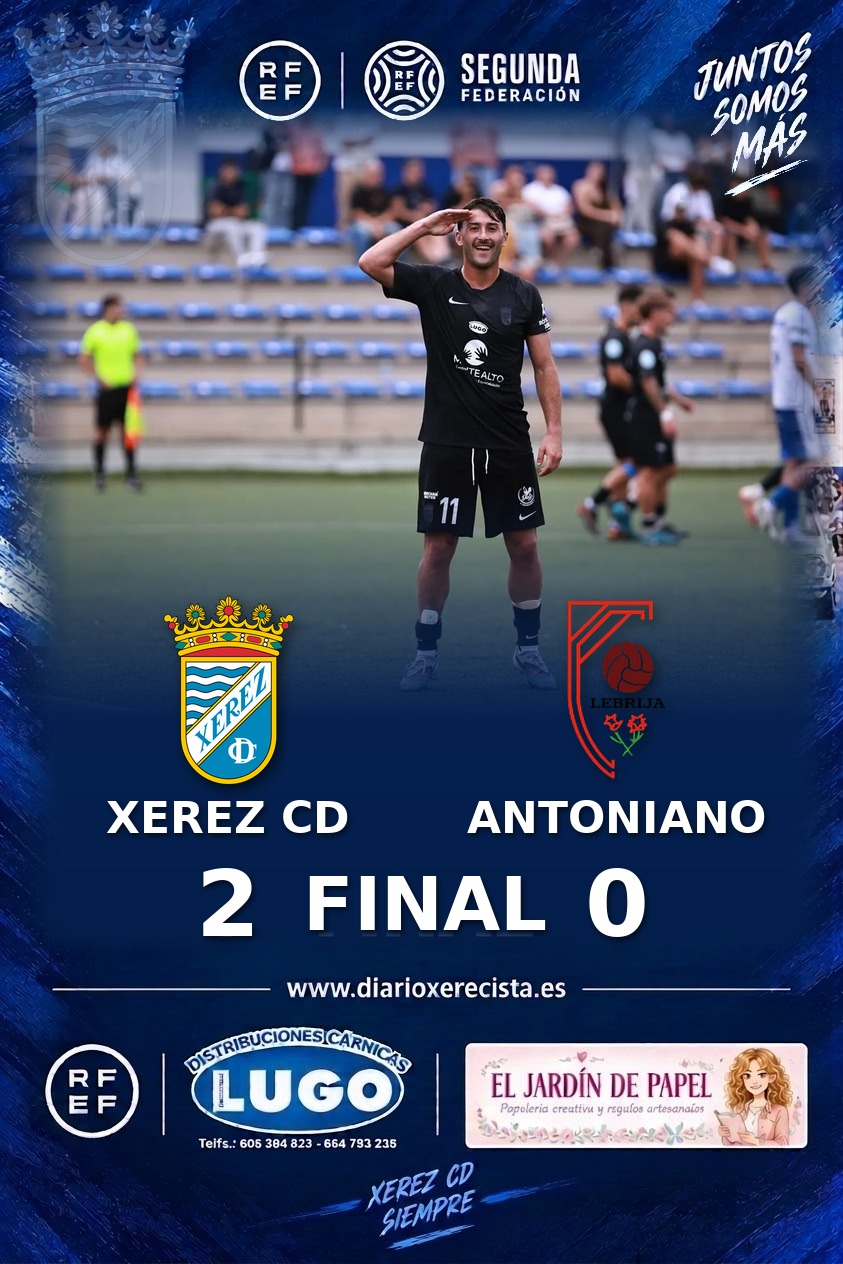
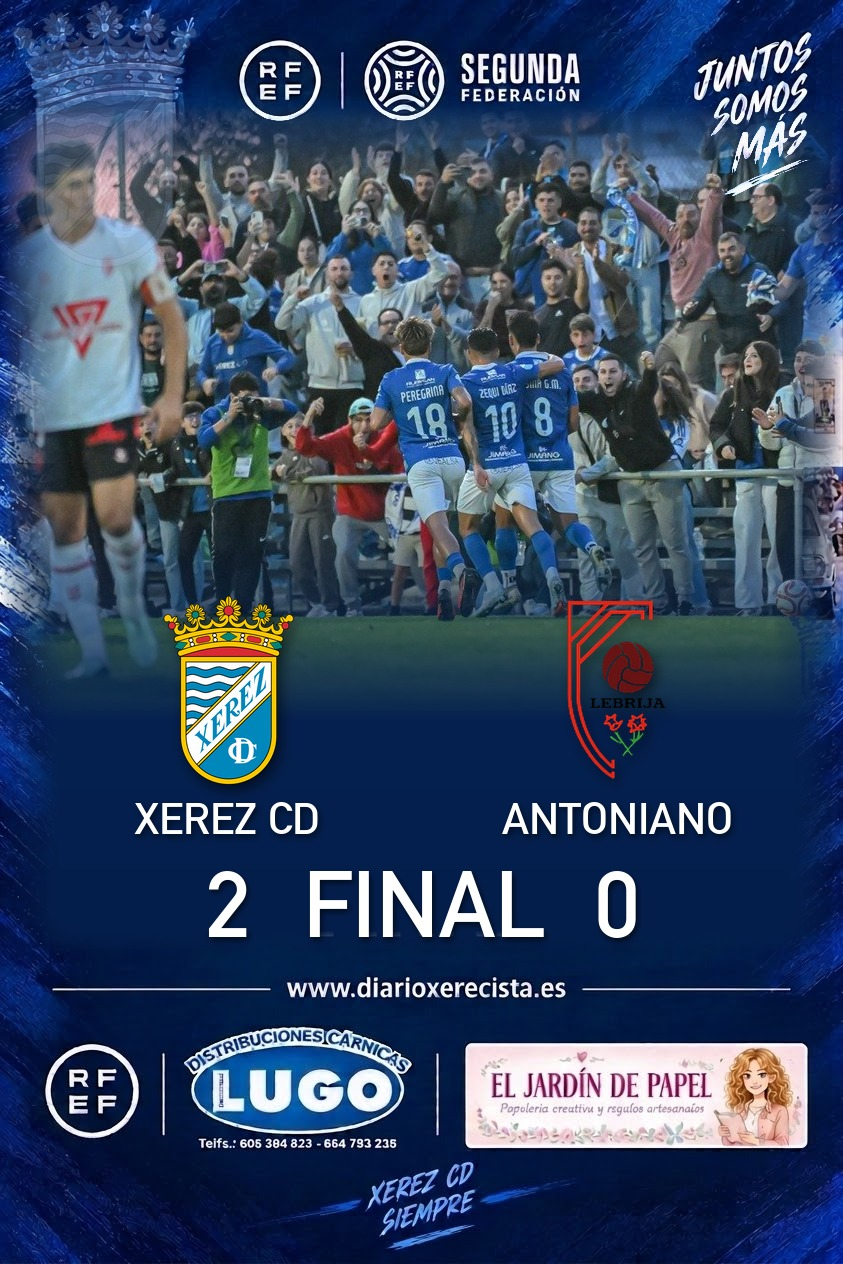
art134: crónica Xerez CD 2-0 Antoniano (J11), ES+EN, formato clásico; resultado en el calendario; tuit del partido con goleadores y foto del partido

diff --git a/noticias/cronicas/2026-11/el-xerez-suma-cuatro-victorias-seguidas-y-se-acerca-a-la-segunda-plaza/index.html b/noticias/cronicas/2026-11/el-xerez-suma-cuatro-victorias-seguidas-y-se-acerca-a-la-segunda-plaza/index.html
@@ -1,0 +1,122 @@
+<!DOCTYPE html>
+<html lang="es">
+<head>
+<meta charset="UTF-8">
+<meta name="viewport" content="width=device-width, initial-scale=1.0">
+<title>El Xerez suma cuatro victorias seguidas y se acerca a la segunda plaza (2-0) | Diario Xerecista</title>
+<meta name="description" content="Un penalti transformado por Isma y un gol de Mario Peregrina antes del descanso bastaron para superar al Atlético Antoniano en el Pedro Garrido. Los azulinos son quintos, a dos puntos del segundo puesto.">
+<meta name="robots" content="index, follow, max-snippet:-1, max-image-preview:large">
+<link rel="canonical" href="https://www.diarioxerecista.es/noticias/cronicas/2026-11/el-xerez-suma-cuatro-victorias-seguidas-y-se-acerca-a-la-segunda-plaza/">
+<link rel="alternate" hreflang="es" href="https://www.diarioxerecista.es/noticias/cronicas/2026-11/el-xerez-suma-cuatro-victorias-seguidas-y-se-acerca-a-la-segunda-plaza/">
+<link rel="alternate" hreflang="en" href="https://www.diarioxerecista.es/en/noticias/cronicas/2026-11/xerez-make-it-four-wins-in-a-row-and-close-in-on-second-place/">
+<link rel="alternate" hreflang="x-default" href="https://www.diarioxerecista.es/noticias/cronicas/2026-11/el-xerez-suma-cuatro-victorias-seguidas-y-se-acerca-a-la-segunda-plaza/">
+
+<meta property="og:type" content="article">
+<meta property="og:site_name" content="Diario Xerecista">
+<meta property="og:title" content="El Xerez suma cuatro victorias seguidas y se acerca a la segunda plaza (2-0)">
+<meta property="og:description" content="Un penalti transformado por Isma y un gol de Mario Peregrina antes del descanso bastaron para superar al Atlético Antoniano en el Pedro Garrido. Los azulinos son quintos, a dos puntos del segundo puesto.">
+<meta property="og:url" content="https://www.diarioxerecista.es/noticias/cronicas/2026-11/el-xerez-suma-cuatro-victorias-seguidas-y-se-acerca-a-la-segunda-plaza/">
+<meta property="og:image" content="https://www.diarioxerecista.es/fotos/redes/art134-es.jpg">
+<meta property="og:image:width" content="1200">
+<meta property="og:image:height" content="630">
+<meta property="og:locale" content="es_ES">
+
+<meta name="twitter:card" content="summary_large_image">
+<meta name="twitter:title" content="El Xerez suma cuatro victorias seguidas y se acerca a la segunda plaza (2-0)">
+<meta name="twitter:description" content="Un penalti transformado por Isma y un gol de Mario Peregrina antes del descanso bastaron para superar al Atlético Antoniano en el Pedro Garrido. Los azulinos son quintos, a dos puntos del segundo puesto.">
+<meta name="twitter:image" content="https://www.diarioxerecista.es/fotos/redes/art134-es.jpg">
+
+<link rel="preconnect" href="https://fonts.googleapis.com">
+<link rel="preconnect" href="https://fonts.gstatic.com" crossorigin>
+<link href="https://fonts.googleapis.com/css2?family=Fraunces:ital,opsz,wght@0,9..144,400;0,9..144,600;0,9..144,900;1,9..144,600;1,9..144,900&family=Space+Mono:wght@400;700&display=swap" rel="stylesheet">
+<link rel="stylesheet" href="../../../../noticia.css?v=6">
+
+<script type="application/ld+json">
+{
+  "@context": "https://schema.org",
+  "@type": "NewsArticle",
+  "headline": "El Xerez suma cuatro victorias seguidas y se acerca a la segunda plaza (2-0)",
+  "description": "Un penalti transformado por Isma y un gol de Mario Peregrina antes del descanso bastaron para superar al Atlético Antoniano en el Pedro Garrido. Los azulinos son quintos, a dos puntos del segundo puesto.",
+  "image": [
+    "https://www.diarioxerecista.es/fotos/publicadas/xerez-antoniano-j11-celebracion-peregrina.jpg"
+  ],
+  "datePublished": "2026-11-15",
+  "dateModified": "2026-11-15",
+  "inLanguage": "es",
+  "author": {
+    "@type": "Organization",
+    "name": "Diario Xerecista"
+  },
+  "publisher": {
+    "@type": "Organization",
+    "name": "Diario Xerecista",
+    "logo": {
+      "@type": "ImageObject",
+      "url": "https://www.diarioxerecista.es/fotos/escudos/escudo-xerez-cd-hd.png"
+    }
+  },
+  "mainEntityOfPage": {
+    "@type": "WebPage",
+    "@id": "https://www.diarioxerecista.es/noticias/cronicas/2026-11/el-xerez-suma-cuatro-victorias-seguidas-y-se-acerca-a-la-segunda-plaza/"
+  }
+}
+</script>
+<link rel="icon" href="../../../../favicon.ico" sizes="48x48">
+<link rel="icon" type="image/png" sizes="192x192" href="../../../../icono-192.png">
+<link rel="apple-touch-icon" href="../../../../apple-touch-icon.png">
+</head>
+<body>
+
+  <header class="n-header">
+    <a class="n-brand" href="../../../../index.html">
+      <img src="../../../../fotos/escudos/escudo-xerez-cd-hd.png" alt="Escudo Xerez Club Deportivo">
+      <span>Diario Xerecista</span>
+    </a>
+    <a class="n-home-link" href="../../../../index.html">Portada</a>
+    <a class="n-home-link" href="../../../../en/noticias/cronicas/2026-11/xerez-make-it-four-wins-in-a-row-and-close-in-on-second-place/">🇬🇧 English</a>
+  </header>
+
+  <main class="n-article cc-wide">
+    <span class="eyebrow">Crónica · Jornada 11</span>
+    <h1>El Xerez suma cuatro victorias seguidas y se acerca a la segunda plaza (2-0)</h1>
+    <p class="lead cc-sub">Un penalti transformado por Isma y un gol de Mario Peregrina antes del descanso bastaron para superar al Atlético Antoniano en el Pedro Garrido. Los azulinos son quintos, a dos puntos del segundo puesto.</p>
+
+    <div class="cc-grid">
+    <aside>
+      <div class="cc-ficha"><div class="cc-marcador"><span class="cc-eq">Xerez CD</span><span class="cc-g">2</span><span class="cc-g">0</span><span class="cc-eq r">At. Antoniano</span></div><div class="cc-onces"><ul><li>Pantoja<span class="cc-bal">⚽⚽</span></li><li>Víctor López<span class="cc-bal">⚽⚽</span></li><li><span class="cc-am"></span><span class="cc-am"></span>Moi<span class="cc-bal">⚽⚽</span></li><li><span class="cc-am"></span>Fali<span class="cc-bal">⚽⚽</span></li><li>Chacartegui<span class="cc-bal">⚽⚽</span></li><li>Raúl López<span class="cc-bal">⚽⚽</span></li><li>Isma<span class="cc-bal">⚽⚽</span></li><li class="sup">↳ Jaime López <span class="cc-min">67'</span><span class="cc-bal">⚽</span></li><li>Peregrina<span class="cc-bal">⚽⚽</span></li><li class="sup">↳ Guille Campos <span class="cc-min">81'</span><span class="cc-bal">⚽</span></li><li>Zeki<span class="cc-bal">⚽⚽</span></li><li class="sup">↳ Manu Galán <span class="cc-min">52'</span><span class="cc-bal">⚽</span></li><li><span class="cc-am"></span>Julito<span class="cc-bal">⚽⚽</span></li><li class="sup">↳ Zelu <span class="cc-min">67'</span><span class="cc-bal">⚽</span></li><li>Chuma<span class="cc-bal">⚽⚽</span></li><li class="sup">↳ Rubén Mesa <span class="cc-min">67'</span><span class="cc-bal">⚽</span></li><li class="dt">Abel Segovia</li></ul><ul><li>Matías Árbol<span class="cc-sc">s.c.</span></li><li><span class="cc-am"></span><span class="cc-am"></span>Pedro Melli<span class="cc-sc">s.c.</span></li><li>Carrascal<span class="cc-sc">s.c.</span></li><li class="sup">↳ Almeida <span class="cc-min">73'</span><span class="cc-sc">s.c.</span></li><li><span class="cc-am"></span>Nacho<span class="cc-sc">s.c.</span></li><li class="sup">↳ Jesús <span class="cc-min">73'</span><span class="cc-sc">s.c.</span></li><li>Gálvez<span class="cc-sc">s.c.</span></li><li>Marckus<span class="cc-sc">s.c.</span></li><li class="sup">↳ Ricky <span class="cc-min">46'</span><span class="cc-sc">s.c.</span></li><li>Nando<span class="cc-sc">s.c.</span></li><li class="sup">↳ <span class="cc-am"></span>Divino <span class="cc-min">46'</span><span class="cc-sc">s.c.</span></li><li><span class="cc-am"></span>Rodri<span class="cc-sc">s.c.</span></li><li>Álvaro Caro<span class="cc-sc">s.c.</span></li><li class="sup">↳ Álvaro <span class="cc-min">63'</span><span class="cc-sc">s.c.</span></li><li>Luis<span class="cc-sc">s.c.</span></li><li><span class="cc-am"></span>Carlos Hernández<span class="cc-sc">s.c.</span></li><li class="dt">Lolo Ortiz</li></ul></div><p class="cc-leyenda">Notas del Diario Xerecista: de 1 a 3 balones.</p><div class="cc-bloque"><h4>Goles</h4><p class="cc-gol">1-0 (23'): <b>Isma</b>, de penalti</p><p class="cc-gol">2-0 (44'): <b>Mario Peregrina</b></p></div><div class="cc-bloque"><h4>Árbitro</h4><p><b>Jayro Muñoz García</b> (colegio extremeño). Expulsó por doble amarilla a Pedro Melli (21') y a Moi (50'). Amonestó a Julito, Moi y Fali; y a Nacho, Carlos Hernández, Divino y Rodri.</p></div><div class="cc-bloque"><h4>Incidencias</h4><p>Undécima jornada, en el campo Pedro Garrido. 6.288 espectadores.</p></div><div class="cc-eldato"><div class="t">El dato</div><div class="c">Cuatro victorias seguidas (Marbella, Tamaraceite, Sanluqueño y Antoniano): 12 de 12 puntos, 10 goles a favor y 1 en contra.</div></div><div class="cc-caja"><div class="cc-cab"><span class="cc-tag">El Cream</span><span class="cc-nom">Mario Peregrina</span></div><p>Marcó el 2-0 en el 44', anticipándose a su defensor tras el pase de Chuma. Fue el más activo en los desmarques con Zeki y Chacartegui.</p></div><div class="cc-caja"><div class="cc-cab"><span class="cc-tag">Avinagrao</span><span class="cc-nom">El aficionado que insultó a la jueza de línea</span></div><p>Insultó gravemente a la jueza de línea con insultos machistas. No representa al xerecismo, y la grada no puede permitirlo.</p></div></div>
+    </aside>
+    <div class="cc-main">
+      <span class="byline cc-byline">Redacción — 15 de noviembre de 2026</span>
+      <figure class="cc-fig"><img src="../../../../fotos/publicadas/xerez-antoniano-j11-celebracion-peregrina.jpg" alt="Mario Peregrina, Zeki e Isma celebran un gol del Xerez CD ante la afición en el Pedro Garrido" loading="lazy"><figcaption><b>Cuatro seguidas.</b> Peregrina, Zeki e Isma celebran con la afición en el Pedro Garrido. <i>Foto: Diario Xerecista</i></figcaption></figure>
+      <div class="cc-texto">
+      <p>El Xerez CD encadenó este domingo su cuarta victoria consecutiva al derrotar por 2-0 al Atlético Antoniano en el Pedro Garrido, en la undécima jornada del Grupo IV de Segunda RFEF. El equipo de Abel Segovia resolvió el partido en la primera mitad, con un penalti de Isma en el minuto 23 y un tanto de Mario Peregrina en el 44. Hubo dos expulsiones por doble amarilla: la del visitante Pedro Melli en el 21 y la de Moi en el 50.</p>
+      <p>Con este triunfo, el Xerez es quinto. Iguala a puntos con el Betis Deportivo, pero queda por delante por la diferencia de goles general, y se sitúa a dos puntos de la segunda posición. El líder, el Recreativo de Huelva, está tres puntos por encima y tiene pendiente su partido de esta jornada ante el Sevilla Atlético, aplazado por su participación en la final de la Copa Federación.</p>
+      <h2>Cambios en el once</h2>
+      <p>Segovia introdujo novedades en la alineación. Guille Campos, apercibido de sanción con cuatro amarillas, empezó en el banquillo y Víctor López ocupó el lateral derecho. Fali volvió al centro de la defensa junto a Moi. En el Antoniano, que dirige Lolo Ortiz, el exjugador azulino Ricky se quedó entre los suplentes.</p>
+      <p>El Xerez salió a por el partido y encontró en la banda izquierda, con Zeki y Chacartegui, su principal vía de ataque. En el minuto 4, Isma llegó hasta la línea de fondo, pero nadie remató su pase atrás. Los locales sumaron tres saques de esquina en los primeros doce minutos. El Antoniano solo inquietó en una acción en la que Carlos Pantoja cortó un pase horizontal de Gálvez dentro del área.</p>
+      <h2>El penalti que cambió el partido</h2>
+      <figure class="cc-fig"><img src="../../../../fotos/publicadas/xerez-antoniano-j11-penalti-melli.jpg" alt="Pedro Melli, del Atlético Antoniano, disputa el balón con un jugador del Xerez CD junto a la portería" loading="lazy"><figcaption><b>Dentro del área.</b> Pedro Melli (4) se lanza sobre un jugador azulino junto a la portería. <i>Foto: Diario Xerecista</i></figcaption></figure>
+      <p>La jugada clave llegó en el minuto 21. Víctor López centró desde la derecha y Pedro Melli agarró a Chuma cuando iba a rematar. El colegiado extremeño Jayro Muñoz García tardó en decidir, pero señaló penalti y mostró la segunda amarilla al defensa visitante. Isma lo transformó con un disparo centrado y a media altura, mientras el portero Matías Árbol se lanzaba a su derecha.</p>
+      <p>Con un jugador más, el Xerez tuvo el balón y llegó con facilidad, con un Mario Peregrina muy participativo, aunque le faltó acierto en los últimos metros. El Antoniano se encerró con cinco y hasta seis jugadores en la frontal de su área. En el minuto 44, Chuma robó en el centro del campo, entró en el área, se deshizo de su marcador y cedió a Peregrina, que se anticipó a su defensor para batir a Matías Árbol. Antes del descanso, Moi vio la primera amarilla en una falta que Nando lanzó por encima del larguero.</p>
+      <h2>Diez contra diez tras el descanso</h2>
+      <p>Lolo Ortiz dio entrada tras el descanso a Divino y Ricky en la banda derecha. La primera ocasión fue azulina: un mano a mano de Chuma que Matías Árbol desvió. En el minuto 50, Moi vio la segunda amarilla por una falta sobre Gálvez en la frontal, y Ricky Castro lanzó el libre por encima del larguero. Segovia recompuso la defensa de cuatro con la entrada de Manu Galán por Zeki en el 52. Cuatro minutos después, Matías Árbol volvió a intervenir en una falta lanzada por Chuma.</p>
+      <figure class="cc-fig"><img src="../../../../fotos/publicadas/xerez-antoniano-j11-isma-conduce.jpg" alt="Isma, del Xerez CD, conduce el balón en el Pedro Garrido" loading="lazy"><figcaption><b>Isma, al mando.</b> El centrocampista conduce el balón ante la grada del Pedro Garrido. <i>Foto: Diario Xerecista</i></figcaption></figure>
+      <p>El ritmo bajó en el tramo final. En el 67, Jaime López, Zelu y Rubén Mesa sustituyeron a Isma, Julito y Chuma, y en el 81 Guille Campos relevó a Peregrina. El Antoniano no llegó a poner a prueba a Carlos Pantoja, y el Xerez cerró un triunfo que lo mantiene en puestos de play off.</p>
+      </div>
+      <div class="cc-clasi"><span class="cc-flecha">=</span><span class="cc-pos">5.º</span><p><b>El Xerez sigue quinto</b>, con 18 puntos, en puestos de play off. Iguala con el Betis Deportivo, al que supera por diferencia de goles, y está a dos puntos de la segunda plaza.<small>Clasificación provisional de la jornada 11 (falta el Recreativo de Huelva-Sevilla Atlético, aplazado)</small></p></div>
+
+      <div class="n-meta-row">
+        <span class="byline">Redacción — 15 de noviembre de 2026</span>
+        <a href="https://x.com/intent/tweet?text=El%20Xerez%20suma%20cuatro%20victorias%20seguidas%20y%20se%20acerca%20a%20la%20segunda%20plaza%20%282-0%29%0A%0Ahttps%3A%2F%2Fwww.diarioxerecista.es%2Fnoticias%2Fcronicas%2F2026-11%2Fel-xerez-suma-cuatro-victorias-seguidas-y-se-acerca-a-la-segunda-plaza%2F%0A%0A%23XerezCD" target="_blank" rel="noopener" class="share-x-btn">Compartir en 𝕏</a>
+      </div>
+
+      <a class="back-link" href="../../../../en/noticias/cronicas/2026-11/xerez-make-it-four-wins-in-a-row-and-close-in-on-second-place/" style="display:block;margin-bottom:10px;">🇬🇧 Read in English</a>
+      <a class="back-link" href="../../../../index.html">← Volver a la portada</a>
+    </div>
+    </div>
+  </main>
+
+  <footer class="n-foot">© Diario Xerecista — Edición digital, temporada 2026/27</footer>
+
+</body>
+</html>

diff --git a/en/noticias/cronicas/2026-11/xerez-make-it-four-wins-in-a-row-and-close-in-on-second-place/index.html b/en/noticias/cronicas/2026-11/xerez-make-it-four-wins-in-a-row-and-close-in-on-second-place/index.html
@@ -1,0 +1,122 @@
+<!DOCTYPE html>
+<html lang="en">
+<head>
+<meta charset="UTF-8">
+<meta name="viewport" content="width=device-width, initial-scale=1.0">
+<title>Xerez make it four wins in a row and close in on second place (2-0) | Diario Xerecista</title>
+<meta name="description" content="A penalty converted by Isma and a goal from Mario Peregrina before half-time were enough to beat Atlético Antoniano at the Pedro Garrido. The Azulinos are fifth, two points off second place.">
+<meta name="robots" content="index, follow, max-snippet:-1, max-image-preview:large">
+<link rel="canonical" href="https://www.diarioxerecista.es/en/noticias/cronicas/2026-11/xerez-make-it-four-wins-in-a-row-and-close-in-on-second-place/">
+<link rel="alternate" hreflang="es" href="https://www.diarioxerecista.es/noticias/cronicas/2026-11/el-xerez-suma-cuatro-victorias-seguidas-y-se-acerca-a-la-segunda-plaza/">
+<link rel="alternate" hreflang="en" href="https://www.diarioxerecista.es/en/noticias/cronicas/2026-11/xerez-make-it-four-wins-in-a-row-and-close-in-on-second-place/">
+<link rel="alternate" hreflang="x-default" href="https://www.diarioxerecista.es/noticias/cronicas/2026-11/el-xerez-suma-cuatro-victorias-seguidas-y-se-acerca-a-la-segunda-plaza/">
+
+<meta property="og:type" content="article">
+<meta property="og:site_name" content="Diario Xerecista">
+<meta property="og:title" content="Xerez make it four wins in a row and close in on second place (2-0)">
+<meta property="og:description" content="A penalty converted by Isma and a goal from Mario Peregrina before half-time were enough to beat Atlético Antoniano at the Pedro Garrido. The Azulinos are fifth, two points off second place.">
+<meta property="og:url" content="https://www.diarioxerecista.es/en/noticias/cronicas/2026-11/xerez-make-it-four-wins-in-a-row-and-close-in-on-second-place/">
+<meta property="og:image" content="https://www.diarioxerecista.es/fotos/redes/art134-en.jpg">
+<meta property="og:image:width" content="1200">
+<meta property="og:image:height" content="630">
+<meta property="og:locale" content="en_GB">
+
+<meta name="twitter:card" content="summary_large_image">
+<meta name="twitter:title" content="Xerez make it four wins in a row and close in on second place (2-0)">
+<meta name="twitter:description" content="A penalty converted by Isma and a goal from Mario Peregrina before half-time were enough to beat Atlético Antoniano at the Pedro Garrido. The Azulinos are fifth, two points off second place.">
+<meta name="twitter:image" content="https://www.diarioxerecista.es/fotos/redes/art134-en.jpg">
+
+<link rel="preconnect" href="https://fonts.googleapis.com">
+<link rel="preconnect" href="https://fonts.gstatic.com" crossorigin>
+<link href="https://fonts.googleapis.com/css2?family=Fraunces:ital,opsz,wght@0,9..144,400;0,9..144,600;0,9..144,900;1,9..144,600;1,9..144,900&family=Space+Mono:wght@400;700&display=swap" rel="stylesheet">
+<link rel="stylesheet" href="../../../../../noticia.css?v=6">
+
+<script type="application/ld+json">
+{
+  "@context": "https://schema.org",
+  "@type": "NewsArticle",
+  "headline": "Xerez make it four wins in a row and close in on second place (2-0)",
+  "description": "A penalty converted by Isma and a goal from Mario Peregrina before half-time were enough to beat Atlético Antoniano at the Pedro Garrido. The Azulinos are fifth, two points off second place.",
+  "image": [
+    "https://www.diarioxerecista.es/fotos/publicadas/xerez-antoniano-j11-celebracion-peregrina.jpg"
+  ],
+  "datePublished": "2026-11-15",
+  "dateModified": "2026-11-15",
+  "inLanguage": "en",
+  "author": {
+    "@type": "Organization",
+    "name": "Diario Xerecista"
+  },
+  "publisher": {
+    "@type": "Organization",
+    "name": "Diario Xerecista",
+    "logo": {
+      "@type": "ImageObject",
+      "url": "https://www.diarioxerecista.es/fotos/escudos/escudo-xerez-cd-hd.png"
+    }
+  },
+  "mainEntityOfPage": {
+    "@type": "WebPage",
+    "@id": "https://www.diarioxerecista.es/en/noticias/cronicas/2026-11/xerez-make-it-four-wins-in-a-row-and-close-in-on-second-place/"
+  }
+}
+</script>
+<link rel="icon" href="../../../../../favicon.ico" sizes="48x48">
+<link rel="icon" type="image/png" sizes="192x192" href="../../../../../icono-192.png">
+<link rel="apple-touch-icon" href="../../../../../apple-touch-icon.png">
+</head>
+<body>
+
+  <header class="n-header">
+    <a class="n-brand" href="../../../../../index.html">
+      <img src="../../../../../fotos/escudos/escudo-xerez-cd-hd.png" alt="Escudo Xerez Club Deportivo">
+      <span>Diario Xerecista</span>
+    </a>
+    <a class="n-home-link" href="../../../../../index.html">Home</a>
+    <a class="n-home-link" href="../../../../../noticias/cronicas/2026-11/el-xerez-suma-cuatro-victorias-seguidas-y-se-acerca-a-la-segunda-plaza/">🇪🇸 Español</a>
+  </header>
+
+  <main class="n-article cc-wide">
+    <span class="eyebrow">Match report · Matchday 11</span>
+    <h1>Xerez make it four wins in a row and close in on second place (2-0)</h1>
+    <p class="lead cc-sub">A penalty converted by Isma and a goal from Mario Peregrina before half-time were enough to beat Atlético Antoniano at the Pedro Garrido. The Azulinos are fifth, two points off second place.</p>
+
+    <div class="cc-grid">
+    <aside>
+      <div class="cc-ficha"><div class="cc-marcador"><span class="cc-eq">Xerez CD</span><span class="cc-g">2</span><span class="cc-g">0</span><span class="cc-eq r">At. Antoniano</span></div><div class="cc-onces"><ul><li>Pantoja<span class="cc-bal">⚽⚽</span></li><li>Víctor López<span class="cc-bal">⚽⚽</span></li><li><span class="cc-am"></span><span class="cc-am"></span>Moi<span class="cc-bal">⚽⚽</span></li><li><span class="cc-am"></span>Fali<span class="cc-bal">⚽⚽</span></li><li>Chacartegui<span class="cc-bal">⚽⚽</span></li><li>Raúl López<span class="cc-bal">⚽⚽</span></li><li>Isma<span class="cc-bal">⚽⚽</span></li><li class="sup">↳ Jaime López <span class="cc-min">67'</span><span class="cc-bal">⚽</span></li><li>Peregrina<span class="cc-bal">⚽⚽</span></li><li class="sup">↳ Guille Campos <span class="cc-min">81'</span><span class="cc-bal">⚽</span></li><li>Zeki<span class="cc-bal">⚽⚽</span></li><li class="sup">↳ Manu Galán <span class="cc-min">52'</span><span class="cc-bal">⚽</span></li><li><span class="cc-am"></span>Julito<span class="cc-bal">⚽⚽</span></li><li class="sup">↳ Zelu <span class="cc-min">67'</span><span class="cc-bal">⚽</span></li><li>Chuma<span class="cc-bal">⚽⚽</span></li><li class="sup">↳ Rubén Mesa <span class="cc-min">67'</span><span class="cc-bal">⚽</span></li><li class="dt">Abel Segovia</li></ul><ul><li>Matías Árbol<span class="cc-sc">s.c.</span></li><li><span class="cc-am"></span><span class="cc-am"></span>Pedro Melli<span class="cc-sc">s.c.</span></li><li>Carrascal<span class="cc-sc">s.c.</span></li><li class="sup">↳ Almeida <span class="cc-min">73'</span><span class="cc-sc">s.c.</span></li><li><span class="cc-am"></span>Nacho<span class="cc-sc">s.c.</span></li><li class="sup">↳ Jesús <span class="cc-min">73'</span><span class="cc-sc">s.c.</span></li><li>Gálvez<span class="cc-sc">s.c.</span></li><li>Marckus<span class="cc-sc">s.c.</span></li><li class="sup">↳ Ricky <span class="cc-min">46'</span><span class="cc-sc">s.c.</span></li><li>Nando<span class="cc-sc">s.c.</span></li><li class="sup">↳ <span class="cc-am"></span>Divino <span class="cc-min">46'</span><span class="cc-sc">s.c.</span></li><li><span class="cc-am"></span>Rodri<span class="cc-sc">s.c.</span></li><li>Álvaro Caro<span class="cc-sc">s.c.</span></li><li class="sup">↳ Álvaro <span class="cc-min">63'</span><span class="cc-sc">s.c.</span></li><li>Luis<span class="cc-sc">s.c.</span></li><li><span class="cc-am"></span>Carlos Hernández<span class="cc-sc">s.c.</span></li><li class="dt">Lolo Ortiz</li></ul></div><p class="cc-leyenda">Diario Xerecista ratings: 1 to 3 balls.</p><div class="cc-bloque"><h4>Goals</h4><p class="cc-gol">1-0 (23'): <b>Isma</b>, penalty</p><p class="cc-gol">2-0 (44'): <b>Mario Peregrina</b></p></div><div class="cc-bloque"><h4>Referee</h4><p><b>Jayro Muñoz García</b> (Extremadura committee). Sent off Pedro Melli (21') and Moi (50') for two yellow cards. Booked Julito, Moi and Fali; and Nacho, Carlos Hernández, Divino and Rodri.</p></div><div class="cc-bloque"><h4>Incidents</h4><p>Matchday 11, at the Pedro Garrido ground. 6,288 spectators.</p></div><div class="cc-eldato"><div class="t">The stat</div><div class="c">Four wins in a row (Marbella, Tamaraceite, Sanluqueño and Antoniano): 12 points out of 12, 10 goals scored and 1 conceded.</div></div><div class="cc-caja"><div class="cc-cab"><span class="cc-tag">El Cream</span><span class="cc-nom">Mario Peregrina</span></div><p>Scored the 2-0 in the 44th minute, getting ahead of his marker after Chuma's pass. He was the most active in making runs with Zeki and Chacartegui.</p></div><div class="cc-caja"><div class="cc-cab"><span class="cc-tag">Avinagrao</span><span class="cc-nom">The fan who insulted the female assistant referee</span></div><p>Seriously insulted the female assistant referee with sexist abuse. This fan does not represent the Xerez faithful, and the stands cannot allow it.</p></div></div>
+    </aside>
+    <div class="cc-main">
+      <span class="byline cc-byline">Newsroom — 15 November 2026</span>
+      <figure class="cc-fig"><img src="../../../../../fotos/publicadas/xerez-antoniano-j11-celebracion-peregrina.jpg" alt="Mario Peregrina, Zeki and Isma celebrate a Xerez CD goal in front of the fans at the Pedro Garrido" loading="lazy"><figcaption><b>Four in a row.</b> Peregrina, Zeki and Isma celebrate with the fans at the Pedro Garrido. <i>Photo: Diario Xerecista</i></figcaption></figure>
+      <div class="cc-texto">
+      <p>Xerez CD made it four wins in a row on Sunday by beating Atlético Antoniano 2-0 at the Pedro Garrido, on matchday 11 of Group IV of Segunda RFEF. Abel Segovia's side settled the game in the first half, with an Isma penalty in the 23rd minute and a goal from Mario Peregrina in the 44th. There were two red cards for second yellows: the visitors' Pedro Melli in the 21st minute and Moi in the 50th.</p>
+      <p>With this win, Xerez are fifth. They are level on points with Betis Deportivo, but ahead on overall goal difference, and two points behind second place. The leaders, Recreativo de Huelva, are three points above and have their game this matchday against Sevilla Atlético pending, postponed because of their participation in the Copa Federación final.</p>
+      <h2>Changes to the line-up</h2>
+      <p>Segovia made changes to the line-up. Guille Campos, one booking away from a ban after four yellow cards, started on the bench and Víctor López played at right-back. Fali returned to the centre of defence alongside Moi. Antoniano, coached by Lolo Ortiz, left former Xerez player Ricky among the substitutes.</p>
+      <p>Xerez went for the game and found their main route to goal down the left, through Zeki and Chacartegui. In the 4th minute, Isma reached the byline, but nobody got on the end of his cut-back. The home side won three corners in the first twelve minutes. Antoniano only threatened once, when Carlos Pantoja cut out a square pass from Gálvez inside the box.</p>
+      <h2>The penalty that changed the game</h2>
+      <figure class="cc-fig"><img src="../../../../../fotos/publicadas/xerez-antoniano-j11-penalti-melli.jpg" alt="Pedro Melli, of Atlético Antoniano, challenges a Xerez CD player next to the goal" loading="lazy"><figcaption><b>Inside the box.</b> Pedro Melli (4) goes in on a Xerez player next to the goal. <i>Photo: Diario Xerecista</i></figcaption></figure>
+      <p>The key moment came in the 21st minute. Víctor López crossed from the right and Pedro Melli held Chuma as he was about to shoot. The Extremadura referee Jayro Muñoz García took his time, but awarded the penalty and showed the visiting defender a second yellow card. Isma converted it with a central shot at mid-height, while goalkeeper Matías Árbol dived to his right.</p>
+      <p>With an extra man, Xerez had the ball and got forward with ease, with a very involved Mario Peregrina, although they lacked precision in the final metres. Antoniano sat back with five and even six players on the edge of their box. In the 44th minute, Chuma won the ball in midfield, went into the box, beat his marker and laid it off to Peregrina, who got ahead of his defender to beat Matías Árbol. Before half-time, Moi was booked for a foul from which Nando's free kick went over the bar.</p>
+      <h2>Ten against ten after the break</h2>
+      <p>Lolo Ortiz brought on Divino and Ricky on the right after the break. The first chance fell to Xerez: a one-on-one for Chuma that Matías Árbol turned away. In the 50th minute, Moi received a second yellow card for a foul on Gálvez on the edge of the box, and Ricky Castro put the free kick over the bar. Segovia rebuilt the back four by bringing on Manu Galán for Zeki in the 52nd minute. Four minutes later, Matías Árbol was called into action again by a Chuma free kick.</p>
+      <figure class="cc-fig"><img src="../../../../../fotos/publicadas/xerez-antoniano-j11-isma-conduce.jpg" alt="Isma, of Xerez CD, runs with the ball at the Pedro Garrido" loading="lazy"><figcaption><b>Isma in charge.</b> The midfielder runs with the ball in front of the Pedro Garrido stand. <i>Photo: Diario Xerecista</i></figcaption></figure>
+      <p>The pace dropped in the closing stages. In the 67th minute, Jaime López, Zelu and Rubén Mesa replaced Isma, Julito and Chuma, and in the 81st Guille Campos came on for Peregrina. Antoniano never tested Carlos Pantoja, and Xerez wrapped up a win that keeps them in the play-off places.</p>
+      </div>
+      <div class="cc-clasi"><span class="cc-flecha">=</span><span class="cc-pos">5th</span><p><b>Xerez stay fifth</b>, with 18 points, in the play-off places. They are level with Betis Deportivo, ahead on goal difference, and two points off second place.<small>Provisional table for matchday 11 (Recreativo de Huelva-Sevilla Atlético postponed)</small></p></div>
+
+      <div class="n-meta-row">
+        <span class="byline">Newsroom — 15 November 2026</span>
+        <a href="https://x.com/intent/tweet?text=Xerez%20make%20it%20four%20wins%20in%20a%20row%20and%20close%20in%20on%20second%20place%20%282-0%29%0A%0Ahttps%3A%2F%2Fwww.diarioxerecista.es%2Fen%2Fnoticias%2Fcronicas%2F2026-11%2Fxerez-make-it-four-wins-in-a-row-and-close-in-on-second-place%2F%0A%0A%23XerezCD" target="_blank" rel="noopener" class="share-x-btn">Share on 𝕏</a>
+      </div>
+
+      <a class="back-link" href="../../../../../noticias/cronicas/2026-11/el-xerez-suma-cuatro-victorias-seguidas-y-se-acerca-a-la-segunda-plaza/" style="display:block;margin-bottom:10px;">🇪🇸 Leer en español</a>
+      <a class="back-link" href="../../../../../index.html">← Back to home</a>
+    </div>
+    </div>
+  </main>
+
+  <footer class="n-foot">© Diario Xerecista — Digital edition, 2026/27 season</footer>
+
+</body>
+</html>

diff --git a/index.html b/index.html
@@ -1656,6 +1656,7 @@
     <div class="news-grid" id="loUltimoGrid">
       <!-- generado dinámicamente por renderPortada(); hasta que carga se ven estos titulares, que también lee Google -->
       <!-- TITULARES-INICIO (no editar a mano: python3 -I scripts/titulares_portada.py) -->
+      <article class="card"><span class="eyebrow">Crónica · Jornada 11</span><h4><a class="tit-link" href="/noticias/cronicas/2026-11/el-xerez-suma-cuatro-victorias-seguidas-y-se-acerca-a-la-segunda-plaza/">El Xerez suma cuatro victorias seguidas y se acerca a la segunda plaza (2-0)</a></h4><p>Un penalti transformado por Isma y un gol de Mario Peregrina antes del descanso bastaron para superar al Atlético Antoniano en el Pedro Garrido. Los azulinos son quintos, a dos puntos del segundo puesto.</p></article>
       <article class="card"><span class="eyebrow">Segunda RFEF · Jornada 11</span><h4><a class="tit-link" href="/noticias/articulos/2026-11/el-xerez-puede-apretar-arriba-en-una-jornada-sin-el-lider/">De la crisis al acecho: el Xerez puede ponerse a tres del líder</a></h4><p>Con el Recreativo de Huelva disputando en Sestao la final de la Copa Federación y un Badajoz-Don Benito en la zona alta, el Xerez CD tiene ante el Antoniano la ocasión de recortar distancias con los de arriba y asentarse entre los cinco primeros.</p></article>
       <article class="card"><span class="eyebrow">Segunda RFEF · Jornada 13</span><h4><a class="tit-link" href="/noticias/articulos/2026-11/el-xerez-linares-el-domingo-29-de-noviembre-a-las-18-00-en-chapin/">El Xerez-Linares, el domingo 29 de noviembre a las 18:00 en Chapín</a></h4><p>El Xerez CD ya conoce el horario de su partido de la jornada 13 de la Segunda RFEF, Grupo IV: recibirá al Linares Deportivo el domingo 29 de noviembre a las 18:00 en el Estadio Municipal de Chapín.</p></article>
       <article class="card"><span class="eyebrow">Opinión · Análisis</span><h4><a class="tit-link" href="/noticias/articulos/2026-11/el-otro-xerez-que-manda/">El otro Xerez que manda</a></h4><p>Mientras el equipo de fútbol pelea por el play off en Segunda RFEF, las jugadoras del Xerez CD Baloncesto lideran la Liga Femenina 2 en su primera temporada en la categoría. Merecen que el xerecismo las mire.</p></article>
@@ -1672,7 +1673,6 @@
       <article class="card"><span class="eyebrow">Xerez CD · Análisis</span><h4><a class="tit-link" href="/noticias/articulos/2026-10/al-xerez-le-falta-gol-5-tantos-en-ocho-jornadas-su-peor-arranque-de-las-ultimas-temporadas/">Al Xerez le falta gol: 5 tantos en ocho jornadas, su peor arranque de las últimas temporadas</a></h4><p>El Xerez CD ha marcado solo 5 goles en las ocho primeras jornadas de liga, ni siquiera uno por partido. Es la cifra más baja de las últimas cuatro temporadas a estas alturas y la segunda peor del grupo. La falta de acierto arriba explica que el equipo sume 9 puntos, por debajo de los cursos anteriores.</p></article>
       <article class="card"><span class="eyebrow">Xerez CD · Disciplina</span><h4><a class="tit-link" href="/noticias/articulos/2026-10/el-xerez-abocado-al-cierre-parcial-de-chapin-y-a-una-multa-de-3000-euros-por-el-lanzamiento-de-objetos/">El Xerez podría recibir un apercibimiento en Copa por el lanzamiento de objetos ante el Cádiz</a></h4><p>Lo ocurrido en el derbi de Copa ante el Cádiz CF no supondría reincidencia, ya que la Copa del Rey y la liga son competiciones distintas y el apercibimiento que el club recibió ante el Ciudad de Lucena corresponde a la liga.</p></article>
       <article class="card"><span class="eyebrow">Opinión · Análisis</span><h4><a class="tit-link" href="/noticias/articulos/2026-10/una-aficion-que-ha-madurado-desde-el-barro/">Una afición que ha madurado desde el barro</a></h4><p>Los aficionados del Xerez demostraron ante el Cádiz que son una afición ejemplar, forjada en años de sufrimiento.</p></article>
-      <article class="card"><span class="eyebrow">Crónica · Copa del Rey</span><h4><a class="tit-link" href="/noticias/cronicas/2026-10/la-razon-pudo-mas-que-el-corazon/">La razón pudo más que el corazón</a></h4><p>El Xerez CD se despidió de la Copa del Rey al caer 1-3 ante el Cádiz CF en Chapín. Jaime López adelantó a los azulinos en el primer minuto y el equipo de Abel Segovia aguantó el pulso hasta el descanso (1-1). En la segunda parte, la pegada del conjunto gaditano, dos categorías por encima, decidió el derbi con los goles de García Pascual y Borja Vázquez.</p></article>
       <!-- TITULARES-FIN -->
     </div>
 
@@ -1985,7 +1985,7 @@
     {fecha:'2026-10-29',jornada:'Copa del Rey',local:'Xerez CD',            visitante:'C\u00e1diz CF',              hora:'21:00', resultado:'1-3', tipo:'copa', sede:'Chap\u00edn'},
     {fecha:'2026-11-01',jornada:'J9', local:'U.D. Tamaraceite',         visitante:'Xerez CD',                hora:'13:00', resultado:'1-3'},
     {fecha:'2026-11-08',jornada:'J10',local:'Atlético Sanluqueño',      visitante:'Xerez CD',                hora:'12:30', resultado:'0-4'},
-    {fecha:'2026-11-15',jornada:'J11',local:'Xerez CD',                 visitante:'C.A. Antoniano',          hora:'18:00', resultado:null, sede:'Pedro Garrido'},
+    {fecha:'2026-11-15',jornada:'J11',local:'Xerez CD',                 visitante:'C.A. Antoniano',          hora:'18:00', resultado:'2-0', sede:'Pedro Garrido'},
     {fecha:'2026-11-22',jornada:'J12',local:'C. Atlético Central',      visitante:'Xerez CD',                hora:'12:00', resultado:null},
     {fecha:'2026-11-29',jornada:'J13',local:'Xerez CD',                 visitante:'Linares Deportivo',       hora:'18:00', resultado:null},
     {fecha:'2026-12-06',jornada:'J14',local:'Las Palmas Atlético',      visitante:'Xerez CD',                resultado:null},
